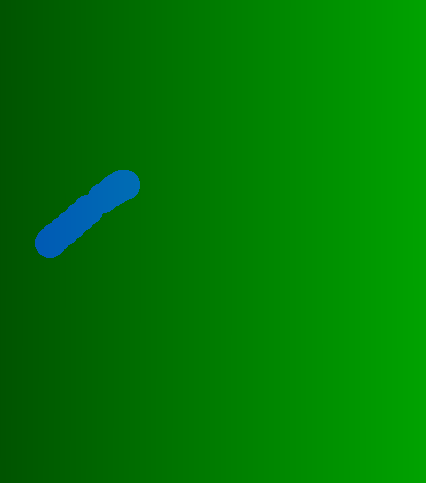
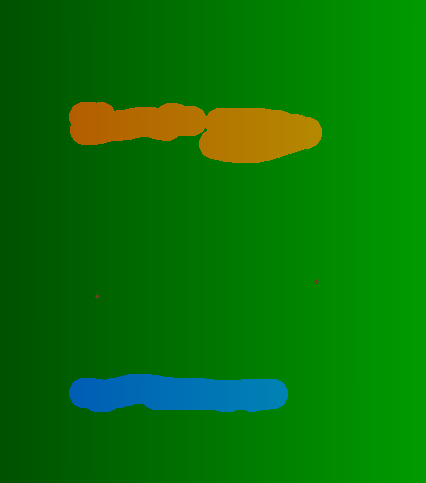
update color

Changed region(s): [[0.1526, 0.1863, 0.7629, 0.3416], [0.1526, 0.7764, 0.6714, 0.8696], [0.061, 0.3416, 0.3357, 0.559]]

diff --git a/src/main/java/ui/MapPageController.java b/src/main/java/ui/MapPageController.java
@@ -4,8 +4,7 @@ import java.util.ArrayList;
 import java.util.HashMap;
 import engine.parser.ExpressionParser;
 import engine.solvers.MapHandler;
-
-
+import engine.solvers.Utility;
 import javafx.event.EventHandler;
 import javafx.fxml.FXML;
 import javafx.scene.Node;
@@ -26,8 +25,8 @@ import java.io.IOException;
 import ui.MapPageController;
 
 public class MapPageController {
-    private static final double MAX_HEIGHT = 1.0;
-    private static final double MIN_HEIGHT = -1.0;
+    private static final double MAX_HEIGHT = 10.0;
+    private static final double MIN_HEIGHT = -10.0;
 
     @FXML
     private Canvas drawingCanvas;
@@ -78,10 +77,10 @@ public class MapPageController {
 
     public void initialize() {
         colorChoiceBox.getItems().addAll(
-            new ColorItem("Sand", Color.web("#d9be5c")),
-            new ColorItem("Grass", Color.web("#48992f")),
-            new ColorItem("Water", Color.web("#077ef5")),
-            new ColorItem("Tree", Color.web("#654321"))
+            new ColorItem("Sand", Color.rgb(180, 125, 0)),
+            new ColorItem("Grass", Color.rgb(0, 125, 0)),
+            new ColorItem("Water", Color.rgb(0, 125, 180)),
+            new ColorItem("Tree", Color.rgb(120, 60, 35))
         );
 
         if (drawingCanvas != null) {
@@ -105,7 +104,7 @@ public class MapPageController {
 
             colorChoiceBox.getSelectionModel().selectedItemProperty().addListener((obs, oldColor, newColor) -> {
                 if (newColor != null) {
-                    if (newColor.color.equals(Color.web("#654321"))) {
+                    if (newColor.color.equals(Color.rgb(120, 60, 35))) {
                         drawingCanvas.setOnMouseClicked(handler);
                         drawingCanvas.setOnMouseDragged(null); // Disable dragging for dark brown
                     } else {
@@ -199,11 +198,11 @@ public class MapPageController {
             System.out.println("Height: " + height);
             throw new Error("Out of range functions");
         } else {
-            double normalizedHeight = (height - MIN_HEIGHT) / (MAX_HEIGHT - MIN_HEIGHT);
-            double brightnessFactor = 0.5 + normalizedHeight * 0.7;
+            // double normalizedHeight = (height - MIN_HEIGHT) / (MAX_HEIGHT - MIN_HEIGHT);
+            // double brightnessFactor = 0.5 + normalizedHeight * 0.7;
             // Color color = baseColor.deriveColor(0, 1, brightnessFactor, 1);
             
-            int gr=(int)Math.floor(75+normalizedHeight*100);
+            int gr=Utility.heightToColor(height);
             Color color=Color.rgb(0, gr, 0);
             
             return color;
@@ -216,7 +215,6 @@ public class MapPageController {
                 double height = heightStorage[x][y];
                 Color heightColor = getModifiedColor(baseColor, height);
                 this.initialGreen[x][y]=(int) Math.round(heightColor.getGreen()*255);
-
                 gc.getPixelWriter().setColor(x, y, heightColor);
             }
         }
@@ -234,11 +232,11 @@ public class MapPageController {
             }
             double height = heightStorage[x][y];
             Color baseColor = colorChoiceBox.getValue().color;
-            Color heightColor = getModifiedColor(baseColor, height);
-            gc.setFill(heightColor);
+            // Color heightColor = getModifiedColor(baseColor, height);
+            gc.setFill(baseColor);
             double brushWidth = widthSlider.getValue();
 
-            if (colorChoiceBox.getValue().color.equals(Color.web("#654321"))) {
+            if (colorChoiceBox.getValue().color.equals(Color.rgb(120, 60, 35))) {
                 gc.fillOval(x - 5, y - 5, 5, 5);
             } else {
                 gc.fillOval(x - brushWidth / 2, y - brushWidth / 2, brushWidth, brushWidth);

diff --git a/src/main/java/engine/solvers/MapHandler.java b/src/main/java/engine/solvers/MapHandler.java
@@ -136,7 +136,9 @@ public class MapHandler {
                     int b = rgb & 0xFF; 
                     int g= (int) initialGreen[i][j]; // get the green
                     Color colortemp=new Color(0,g,0);
-                    if (r>100) {
+                    if (r>30 && b>30) {
+                        colortemp=new Color(100,67,33);
+                    }else if (r>100) {
                         colortemp=new Color(180,g,0);
                     }else if (b>100) {
                         colortemp=new Color(0,g,180);

diff --git a/src/main/java/engine/solvers/Utility.java b/src/main/java/engine/solvers/Utility.java
@@ -11,7 +11,7 @@ public class Utility {
         x[1]=-(x[1]-25);
     }
     
-    // public static int heightToColor(double x){
-    //     return 
-    // }
+    public static int heightToColor(double x){
+        return (int) (x*50+125); 
+    }
 }
